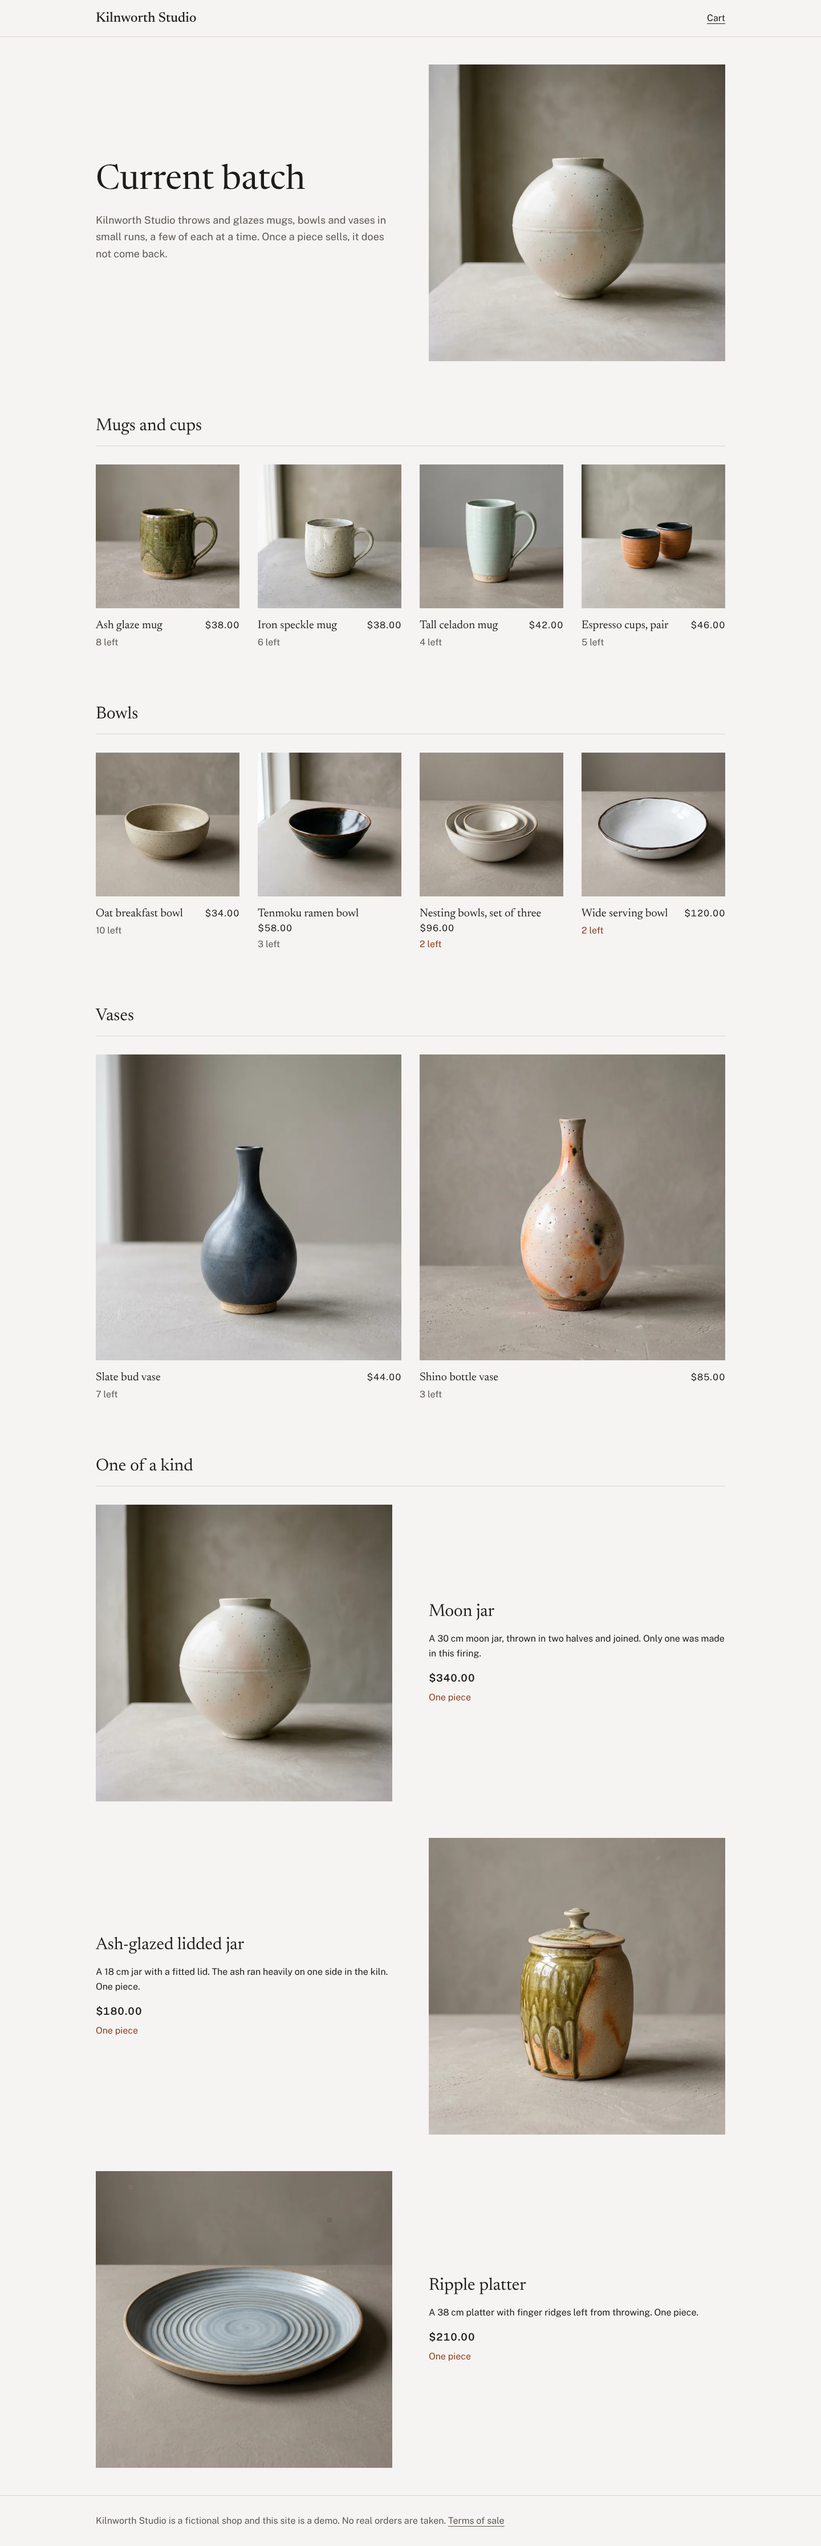
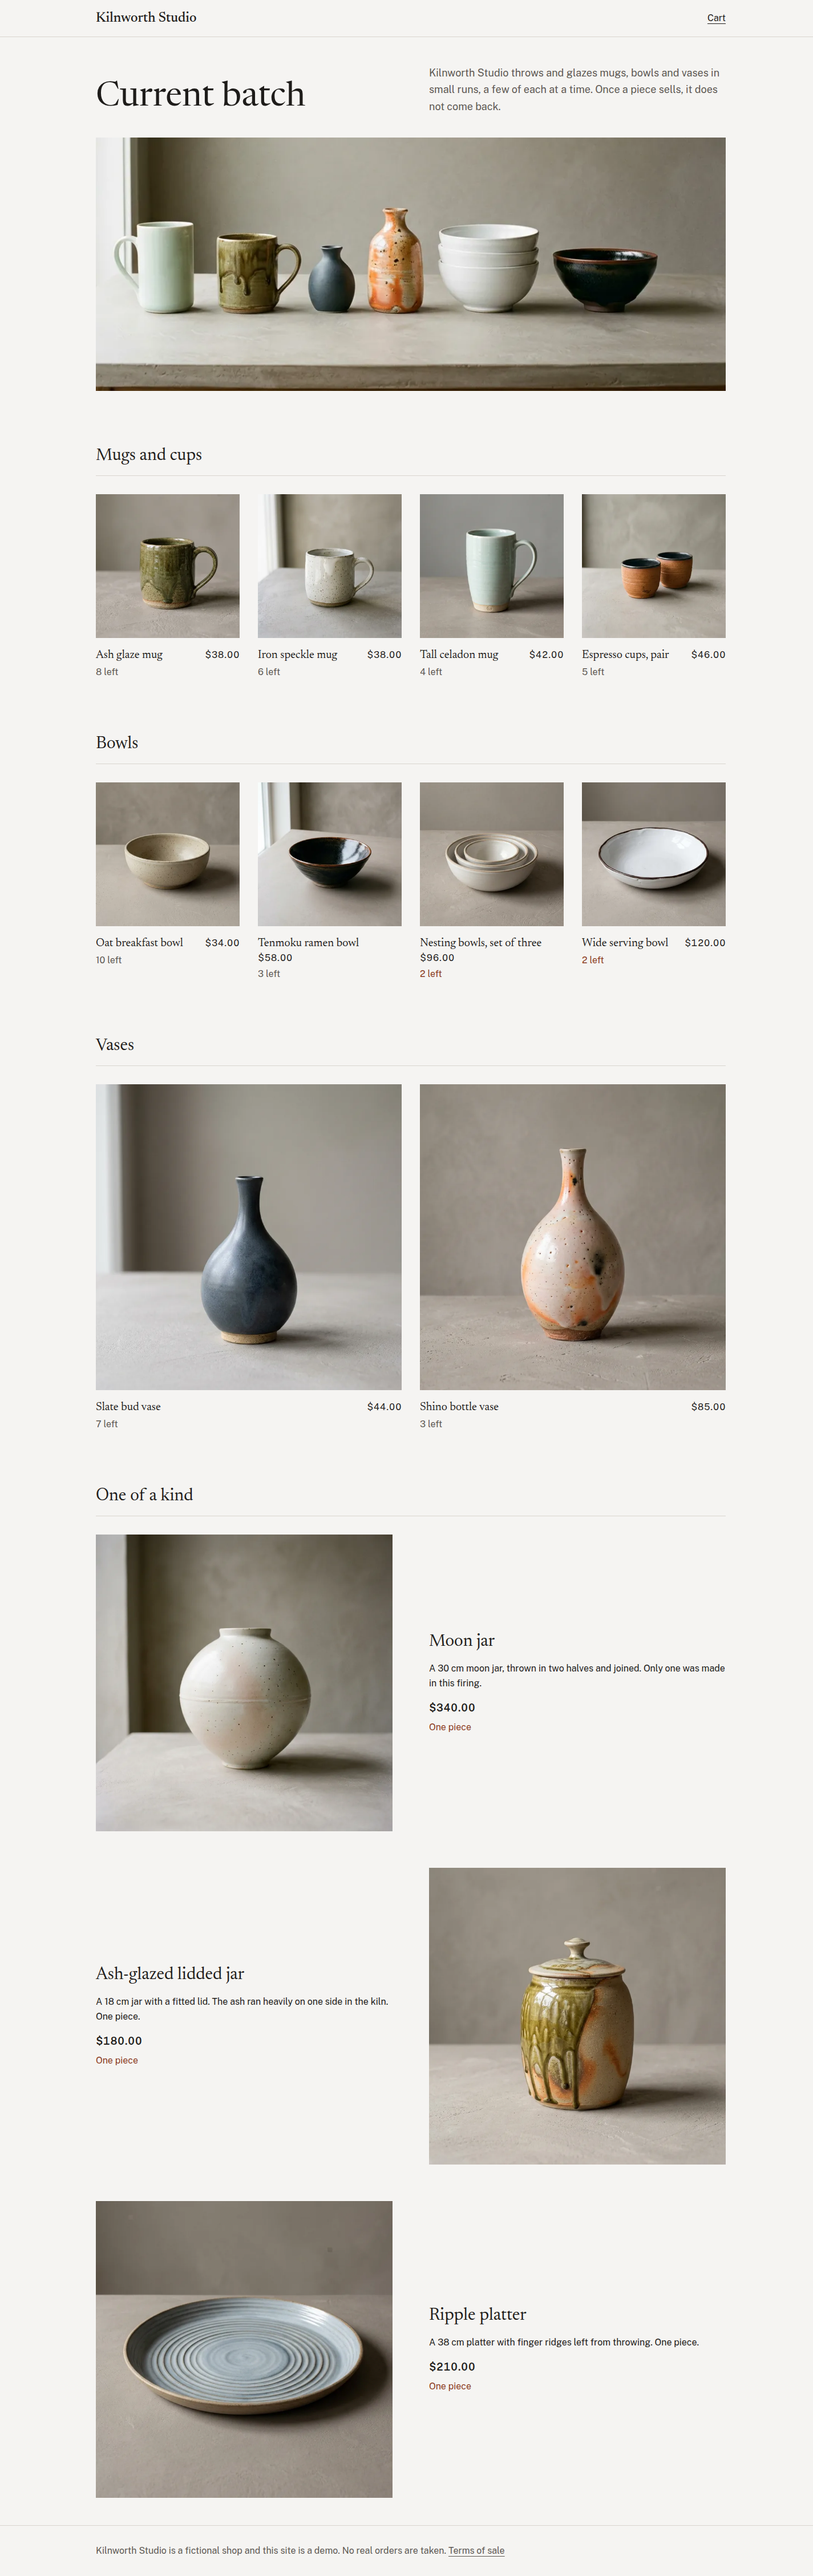
Open the home page with a batch group shot
The moon jar led the page and then opened One of a kind again. A group of six pieces shows the range without repeating a product.

diff --git a/app/page.tsx b/app/page.tsx
@@ -8,7 +8,8 @@ import { getServerApi } from "@/lib/api/server";
 import { formatPrice } from "@/lib/money";
 import type { ProductCategory } from "@/lib/store/products";
 
-const FEATURED_SLUG = "moon-jar";
+// A group shot rather than one product, so no piece appears twice on the page.
+const BATCH_PHOTO = { src: "/batch-1144.webp", smallSrc: "/batch-572.webp", width: 1144, height: 460 };
 
 const CATEGORY_HEADINGS: Record<ProductCategory, string> = {
   mug: "Mugs and cups",
@@ -21,31 +22,31 @@ export default async function CatalogPage() {
   const api = await getServerApi();
   const catalog = await api.listProducts();
   const products = catalog.ok ? catalog.data.products : [];
-  const featured = products.find((product) => product.slug === FEATURED_SLUG);
 
   return (
     <>
-      <section aria-labelledby="intro-heading" className="grid items-center gap-8 lg:grid-cols-2 lg:gap-16">
-        <div>
+      <section aria-labelledby="intro-heading">
+        <div className="grid gap-6 lg:grid-cols-2 lg:items-end lg:gap-16">
           <h1 id="intro-heading" className="text-5xl sm:text-6xl">
             Current batch
           </h1>
-          <p className="mt-6 max-w-[34rem] text-lg leading-relaxed text-ink-muted">
+          <p className="max-w-[34rem] text-lg leading-relaxed text-ink-muted">
             Kilnworth Studio throws and glazes mugs, bowls and vases in small runs, a few of each at a time. Once a
             piece sells, it does not come back.
           </p>
         </div>
-        {featured && (
-          <Link href={`/products/${featured.slug}`} className="block">
-            <ProductPhoto
-              image={featured.image}
-              alt={`${featured.name}, ${formatPrice(featured.priceCents)}`}
-              layout="large"
-              loading="eager"
-              sizes="(min-width: 75rem) 34rem, (min-width: 64rem) 45vw, 100vw"
-            />
-          </Link>
-        )}
+        {/* eslint-disable-next-line @next/next/no-img-element -- images are unoptimized, see ProductPhoto */}
+        <img
+          src={BATCH_PHOTO.src}
+          srcSet={`${BATCH_PHOTO.smallSrc} 572w, ${BATCH_PHOTO.src} 1144w`}
+          sizes="(min-width: 75rem) 69rem, 100vw"
+          width={BATCH_PHOTO.width}
+          height={BATCH_PHOTO.height}
+          alt="Mugs, a bud vase, a bottle vase and bowls from the current batch on a plaster table"
+          fetchPriority="high"
+          decoding="async"
+          className="mt-10 h-auto w-full bg-line"
+        />
       </section>
 
       <div className="mt-16 sm:mt-24">

diff --git a/NOTES.md b/NOTES.md
@@ -418,6 +418,22 @@ One more local development pitfall: after switching to this branch, `next dev` k
 previous branch's compiled `globals.css` from Turbopack's cache in `.next/dev`, with no error.
 Deleting `.next/dev` fixed it; leave `.next/cache` alone, because the local database lives there.
 
+### Review fixes after the pass
+
+- The cart count no longer fades. On a second machine the axe scan in
+  `e2e/accessibility.spec.ts` caught the count at partial opacity right after "Add to cart" and
+  reported a contrast violation; on the first machine the same test passed, so it depended on
+  timing. With the fade gone the test passed three runs out of three.
+- The home intro no longer shows the moon jar, which also opens "One of a kind" further down. It
+  now shows a group shot of six pieces from the batch (`public/batch-1144.webp` and
+  `batch-572.webp`), full content width under the heading.
+- `docs/screenshots/home-*.png` were retaken from `npm run preview` after scrolling the page once,
+  because lazy photos below the fold stay at opacity 0 in a full-page shot taken straight after
+  load.
+- `npm run test:e2e -- --repeat-each=3` fails the two purchase tests from the second round on:
+  the first round sells the moon jar, and the e2e database is only reset when the server starts.
+  The suite is meant to run once per server start.
+
 ## Not verified
 
 - A deploy to Cloudflare, and anything on the real edge. All runtime checks used local workerd
